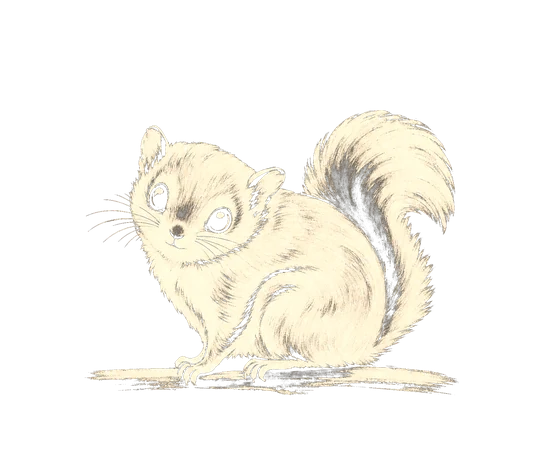
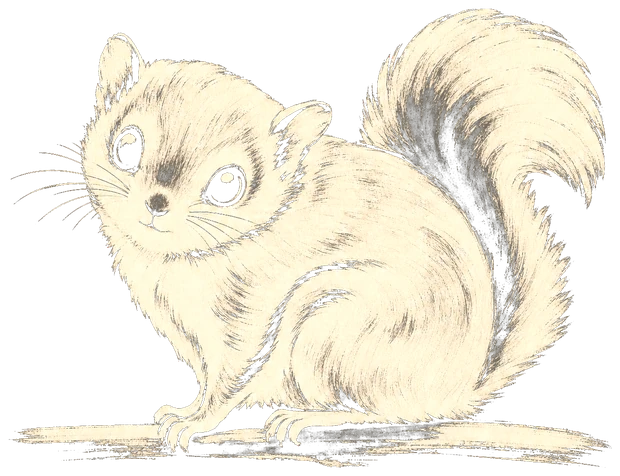
Five-frame launch, one clock with the ink, deeper shadows, slower throughout
FIVE FRAMES, NOT TWO. It sits still when you arrive — the sitting pose, membrane
folded, paws at its chest — gathers itself, throws its membrane half open,
spreads into the glide, and flares as it passes the lens. Three new drawings
(sit, crouch, open), all shot straight from the front like the two that were
already there, all keyed off their black fields and cropped to one union
bounding box, so the animal never changes size or position between frames.
That also answers the thing that was wrong with the resting state: the disc
used to hold a squirrel already mid-glide, which left nothing for scrolling to
cause. Now it is at rest, and scrolling is what makes it fly.

ONE CLOCK. INK_RIDE / INK_HOLD / FLY_RIDE are shared constants and the flight's
hold is DERIVED from the ink's rather than typed a second time, so the two can
no longer drift — and slowing one down slows the other by exactly as much.

SYNC. The growth curve went from an exponent of 2.35 to 1.5. The steep one left
the animal far behind the flood — a 150px squirrel inside a 450px disc reads as
being left behind, not as riding the same burst. It now holds at 42-50% of the
ink's width right through the flood and only overtakes once the ink owns the
whole screen. The ceiling is one rule: while ANY paper is still showing, the
animal has to stay inside the ink's radius or its cream edges land on cream.
Verified at 1000x700 and 390x844 — zero frames where it spills while paper is
visible.
[…]

diff --git a/main.js b/main.js
@@ -163,6 +163,17 @@
      depends on the width the page happened to LOAD at. */
   var mm = gsap.matchMedia();
 
+  /* ---------- the opening's clock ----------
+     The flood and the animal are two hands on ONE clock. Kept as shared
+     constants rather than two sets of magic numbers, because the moment they
+     drift the squirrel starts outgrowing the disc it is sitting in.
+     Slower than the reference on purpose: its circle covers in 205px, which is
+     a snap you feel rather than read. Ours has a five-frame launch inside it,
+     and that needs room to be legible. */
+  var INK_RIDE = 0.40;   /* fraction of a viewport the flood takes */
+  var INK_HOLD = 0.37;   /* fraction of that ride it holds its shape */
+  var FLY_RIDE = 0.62;   /* the animal keeps going a little past the flood */
+
   /* ---------- THE INK ----------
      The whole opening gesture. The ensō sitting in the sentence fills solid,
      then is scaled from its own centre until it floods the screen and the dark
@@ -202,7 +213,7 @@
        you sit and watch expand. Same shape now: hold, then go.
          hold  = 0.37 * 0.26vh = ~87px on a 900-tall screen
          cover = ~218px */
-    var RIDE = 0.26, HOLD = 0.37;
+    var RIDE = INK_RIDE, HOLD = INK_HOLD;
     function inkEase(p) { return p < HOLD ? 0 : (p - HOLD) / (1 - HOLD); }
 
     gsap.fromTo(blot, { scale: 1 }, {
@@ -275,9 +286,16 @@
     var seat = document.querySelector(".blot-figure");
     if (!flier || !blot) return;
 
-    var near = flier.querySelector(".pose-near");
-    var flare = flier.querySelector(".pose-flare");
+    /* Five frames, not two. It is sitting still when you arrive, gathers itself
+       while the ink holds, throws its membrane half open as the flood lets go,
+       spreads into the glide, and flares as it passes the lens. Each cue is a
+       fraction of the flight, and the first two live entirely inside the ink's
+       hold — which is what makes scrolling feel like it CAUSES the launch. */
+    var order = ["sit", "crouch", "open", "glide", "flare"];
+    var frames = {};
+    order.forEach(function (k) { frames[k] = flier.querySelector(".pose-" + k); });
     var de = document.documentElement;
+    var shown = null;
 
     var geo = null;
     function measure() {
@@ -308,13 +326,23 @@
        moment the flood finally opened.
        HOLD is the ink's own hold expressed in this trigger's units:
        0.37 of a 0.26vh ride, inside a 0.42vh flight. */
-    var HOLD = 0.229;
+    /* the ink's hold, expressed in THIS trigger's units — derived, never typed
+       twice, so slowing one down slows the other by exactly as much */
+    var HOLD = (INK_RIDE * INK_HOLD) / FLY_RIDE;
     /* Distance in a straight line looks like a lift, not an approach. Real
        approach is exponential: almost nothing for a long time, then the last
        third eats the screen. */
     function depth(p) {
       if (p <= HOLD) return 0;
-      return Math.pow((p - HOLD) / (1 - HOLD), 2.35);
+      /* 1.5, not 2.35. The steeper curve kept the animal far behind the flood —
+         a 150px squirrel inside a 450px disc reads as being left behind rather
+         than as riding the same burst. It tracks the ink much more closely now
+         and only overtakes it once the ink owns the whole screen. The ceiling
+         is set by one rule: while ANY paper is still showing, the animal's
+         half-diagonal has to stay inside the ink's radius, or its cream edges
+         land on cream. Checked at the worst point, mid-flood: 239 against a
+         432 radius. */
+      return Math.pow((p - HOLD) / (1 - HOLD), 1.5);
     }
 
     function place(p) {
@@ -323,7 +351,7 @@
       /* during the hold it only gathers itself — a couple of percent, enough
          that the screen answers your finger without breaking the circle */
       var tense = Math.min(1, p / HOLD);
-      var scale = 1 + tense * 0.07 + d * 9.4;
+      var scale = 1 + tense * 0.07 + d * 10.3;
       /* it does not come at your eye but just past your shoulder, so the drift
          grows with the approach instead of being a straight zoom */
       var dx = -d * geo.fw * 1.15;
@@ -337,12 +365,17 @@
            end, because a slow fade would read as a ghost rather than a body */
         opacity: p < 0.02 ? p / 0.02 : (p > 0.80 ? Math.max(0, 1 - (p - 0.80) / 0.20) : 1)
       });
-      /* the membrane flares open the moment before it passes */
-      var flaring = p > 0.72;
-      if (flare && flare.__on !== flaring) {
-        flare.__on = flaring;
-        gsap.to(flare, { opacity: flaring ? 1 : 0, duration: 0.34, ease: "power2.out", overwrite: true });
-        gsap.to(near, { opacity: flaring ? 0 : 1, duration: 0.34, ease: "power2.out", overwrite: true });
+      /* cues: two inside the hold, three across the approach */
+      var want = p < HOLD * 0.42 ? "sit"
+               : p < HOLD ? "crouch"
+               : p < HOLD + 0.10 ? "open"
+               : p < 0.74 ? "glide" : "flare";
+      if (want !== shown) {
+        shown = want;
+        order.forEach(function (k) {
+          if (frames[k]) gsap.to(frames[k], { opacity: k === want ? 1 : 0,
+            duration: 0.26, ease: "power2.out", overwrite: true });
+        });
       }
       /* shuchusen — the converging speed lines a woodblock uses for something
          moving fast at the viewer. They open with the animal and outrun it. */
@@ -357,7 +390,7 @@
 
     ScrollTrigger.create({
       start: 0,
-      end: function () { return innerHeight * 0.42; },
+      end: function () { return innerHeight * FLY_RIDE; },
       scrub: true, invalidateOnRefresh: true,
       onRefresh: function () { geo = null; },
       onUpdate: function (self) {
@@ -367,7 +400,16 @@
         /* the seat in the disc hands over on the first frame and takes the
            figure back if you scroll all the way home */
         if (seat) gsap.set(seat, { opacity: p > 0.004 ? 0 : 1 });
-        if (p > 0.001) place(p);
+        if (p > 0.001) { place(p); return; }
+        /* Home again. Without this the flier keeps whatever frame it died on —
+           scroll to the bottom and back and you find the flare pose sitting
+           invisible over the disc, ready to flash on the next nudge. */
+        shown = null;
+        gsap.set(flier, { opacity: 0 });
+        if (rush) gsap.set(rush, { opacity: 0 });
+        order.forEach(function (k) {
+          if (frames[k]) gsap.set(frames[k], { opacity: k === "sit" ? 1 : 0 });
+        });
       }
     });
 

diff --git a/index-tr.html b/index-tr.html
@@ -38,8 +38,8 @@
   <link rel="preload" as="font" type="font/woff2" href="assets/fonts/manrope-var.woff2" crossorigin>
   <link rel="preload" as="image" imagesrcset="assets/horizon-900.webp 900w, assets/horizon-1400.webp 1400w, assets/horizon.webp 1920w" imagesizes="110vw" fetchpriority="high">
   <link rel="preload" as="image" href="assets/disc-ink.webp" fetchpriority="high">
-  <link rel="preload" as="image" href="assets/mascot.webp" fetchpriority="high">
-  <link rel="stylesheet" href="style.css?v=102">
+  <link rel="preload" as="image" href="assets/momo-1-sit.webp" fetchpriority="high">
+  <link rel="stylesheet" href="style.css?v=104">
   <script type="application/ld+json">
   {"@context": "https://schema.org", "@type": "Organization", "name": "217 Products", "url": "https://217products.com/", "logo": "https://217products.com/assets/icon-512.png", "image": "https://217products.com/assets/zen.webp", "description": "Ankara’dan dünyaya açılan bağımsız bir ürün şirketiyiz. Gördüğümüz boşluklara hızlı, sade ve uzun ömürlü ürünler inşa ediyoruz.", "email": "destek217product@gmail.com", "foundingDate": "2026", "address": {"@type": "PostalAddress", "addressLocality": "Ankara", "addressCountry": "TR"}}
   </script>
@@ -69,7 +69,7 @@
 
   <aside class="tate" aria-hidden="true"><span class="seal">二一七</span><span class="tate-t">ANKARA</span></aside>
 
-  <div class="flier" aria-hidden="true"><img class="pose pose-near" src="assets/mascot.webp" alt="" width="1160" height="986" decoding="sync" fetchpriority="high"><img class="pose pose-flare" src="assets/momo-land.webp" alt="" width="1160" height="986" decoding="async"></div>
+  <div class="flier" aria-hidden="true"><img class="pose pose-sit" src="assets/momo-1-sit.webp" alt="" width="600" height="605" decoding="sync"><img class="pose pose-crouch" src="assets/momo-2-crouch.webp" alt="" width="600" height="605" decoding="async"><img class="pose pose-open" src="assets/momo-3-open.webp" alt="" width="760" height="767" decoding="async"><img class="pose pose-glide" src="assets/momo-4-glide.webp" alt="" width="1100" height="1110" decoding="async"><img class="pose pose-flare" src="assets/momo-5-flare.webp" alt="" width="1100" height="1110" decoding="async"></div>
   <div class="rush" aria-hidden="true"><i></i><i></i><i></i><i></i><i></i><i></i><i></i><i></i><i></i><i></i><i></i><i></i><i></i><i></i></div>
 
   <main id="main">
@@ -83,7 +83,7 @@
       <div class="specks" aria-hidden="true"><i></i><i></i><i></i><i></i><i></i><i></i><i></i><i></i><i></i><i></i><i></i><i></i><i></i><i></i><i></i><i></i></div>
 
       <h1 class="hero-head rise">
-        <span class="hero-line">En iyinin <span class="blot"><img class="blot-ink" src="assets/disc-ink.webp" alt="" width="320" height="320" decoding="sync" fetchpriority="high"><i class="blot-fill"></i><img class="blot-figure" src="assets/mascot.webp" alt="" width="1160" height="986" decoding="sync" fetchpriority="high"></span> ardında</span>
+        <span class="hero-line">En iyinin <span class="blot"><img class="blot-ink" src="assets/disc-ink.webp" alt="" width="320" height="320" decoding="sync" fetchpriority="high"><i class="blot-fill"></i><img class="blot-figure" src="assets/momo-1-sit.webp" alt="" width="600" height="605" decoding="sync" fetchpriority="high"></span> ardında</span>
         <span class="hero-line">hep bir <em>fikir</em> vardır.</span>
       </h1>
 
@@ -97,7 +97,7 @@
     <!-- 2 · PRODUCTS -->
     <section class="products" id="products">
       <p class="shelf-line rise">Bir boşluk görürüz.<br>Bir <em>ürün</em> kurarız.</p>
-      <div class="shelf-head rise"><img class="perch" aria-hidden="true" src="assets/momo-perch.webp" alt="" width="560" height="476" loading="lazy" decoding="async"><span class="shelf-eyebrow">RAFTA</span><span class="shelf-num">01 / 01</span></div>
+      <div class="shelf-head rise"><img class="perch" aria-hidden="true" src="assets/momo-perch.webp" alt="" width="620" height="476" loading="lazy" decoding="async"><span class="shelf-eyebrow">RAFTA</span><span class="shelf-num">01 / 01</span></div>
       <div class="product">
         <figure class="product-art rise" data-parallax="0.12">
           <img loading="lazy" decoding="async" src="assets/osnote-rich.webp?u=5" alt="OSNote — tablette bir sayfanın üstünde yüzen el yazısı araç çubuğu, kalemle işaretleniyor" width="1200" height="896">
@@ -254,6 +254,6 @@
   <script src="vendor/ScrollTrigger.min.js?v=3.15.0"></script>
   <script src="vendor/lenis.min.js?v=1.3.25"></script>
   <script type="module" src="globe3d.js?v=17"></script>
-  <script src="main.js?v=60"></script>
+  <script src="main.js?v=63"></script>
 </body>
 </html>

diff --git a/index.html b/index.html
@@ -38,8 +38,8 @@
   <link rel="preload" as="font" type="font/woff2" href="assets/fonts/manrope-var.woff2" crossorigin>
   <link rel="preload" as="image" imagesrcset="assets/horizon-900.webp 900w, assets/horizon-1400.webp 1400w, assets/horizon.webp 1920w" imagesizes="110vw" fetchpriority="high">
   <link rel="preload" as="image" href="assets/disc-ink.webp" fetchpriority="high">
-  <link rel="preload" as="image" href="assets/mascot.webp" fetchpriority="high">
-  <link rel="stylesheet" href="style.css?v=102">
+  <link rel="preload" as="image" href="assets/momo-1-sit.webp" fetchpriority="high">
+  <link rel="stylesheet" href="style.css?v=104">
   <script type="application/ld+json">
   {"@context": "https://schema.org", "@type": "Organization", "name": "217 Products", "url": "https://217products.com/", "logo": "https://217products.com/assets/icon-512.png", "image": "https://217products.com/assets/zen.webp", "description": "An independent product company reaching from Ankara to the world. Where we see a gap, we build products that are fast, simple, and made to last.", "email": "destek217product@gmail.com", "foundingDate": "2026", "address": {"@type": "PostalAddress", "addressLocality": "Ankara", "addressCountry": "TR"}}
   </script>
@@ -69,7 +69,7 @@
 
   <aside class="tate" aria-hidden="true"><span class="seal">二一七</span><span class="tate-t">ANKARA</span></aside>
 
-  <div class="flier" aria-hidden="true"><img class="pose pose-near" src="assets/mascot.webp" alt="" width="1160" height="986" decoding="sync" fetchpriority="high"><img class="pose pose-flare" src="assets/momo-land.webp" alt="" width="1160" height="986" decoding="async"></div>
+  <div class="flier" aria-hidden="true"><img class="pose pose-sit" src="assets/momo-1-sit.webp" alt="" width="600" height="605" decoding="sync"><img class="pose pose-crouch" src="assets/momo-2-crouch.webp" alt="" width="600" height="605" decoding="async"><img class="pose pose-open" src="assets/momo-3-open.webp" alt="" width="760" height="767" decoding="async"><img class="pose pose-glide" src="assets/momo-4-glide.webp" alt="" width="1100" height="1110" decoding="async"><img class="pose pose-flare" src="assets/momo-5-flare.webp" alt="" width="1100" height="1110" decoding="async"></div>
   <div class="rush" aria-hidden="true"><i></i><i></i><i></i><i></i><i></i><i></i><i></i><i></i><i></i><i></i><i></i><i></i><i></i><i></i></div>
 
   <main id="main">
@@ -83,7 +83,7 @@
       <div class="specks" aria-hidden="true"><i></i><i></i><i></i><i></i><i></i><i></i><i></i><i></i><i></i><i></i><i></i><i></i><i></i><i></i><i></i><i></i></div>
 
       <h1 class="hero-head rise">
-        <span class="hero-line">Behind the <span class="blot"><img class="blot-ink" src="assets/disc-ink.webp" alt="" width="320" height="320" decoding="sync" fetchpriority="high"><i class="blot-fill"></i><img class="blot-figure" src="assets/mascot.webp" alt="" width="1160" height="986" decoding="sync" fetchpriority="high"></span> best,</span>
+        <span class="hero-line">Behind the <span class="blot"><img class="blot-ink" src="assets/disc-ink.webp" alt="" width="320" height="320" decoding="sync" fetchpriority="high"><i class="blot-fill"></i><img class="blot-figure" src="assets/momo-1-sit.webp" alt="" width="600" height="605" decoding="sync" fetchpriority="high"></span> best,</span>
         <span class="hero-line">there is always an <em>idea</em>.</span>
       </h1>
 
@@ -97,7 +97,7 @@
     <!-- 2 · PRODUCTS -->
     <section class="products" id="products">
       <p class="shelf-line rise">We see a gap.<br>We build a <em>product</em>.</p>
-      <div class="shelf-head rise"><img class="perch" aria-hidden="true" src="assets/momo-perch.webp" alt="" width="560" height="476" loading="lazy" decoding="async"><span class="shelf-eyebrow">ON THE SHELF</span><span class="shelf-num">01 / 01</span></div>
+      <div class="shelf-head rise"><img class="perch" aria-hidden="true" src="assets/momo-perch.webp" alt="" width="620" height="476" loading="lazy" decoding="async"><span class="shelf-eyebrow">ON THE SHELF</span><span class="shelf-num">01 / 01</span></div>
       <div class="product">
         <figure class="product-art rise" data-parallax="0.12">
           <img loading="lazy" decoding="async" src="assets/osnote-rich.webp?u=5" alt="OSNote — the floating handwriting toolbar over a page on a tablet, a stylus annotating it" width="1200" height="896">
@@ -254,6 +254,6 @@
   <script src="vendor/ScrollTrigger.min.js?v=3.15.0"></script>
   <script src="vendor/lenis.min.js?v=1.3.25"></script>
   <script type="module" src="globe3d.js?v=17"></script>
-  <script src="main.js?v=60"></script>
+  <script src="main.js?v=63"></script>
 </body>
 </html>

diff --git a/style.css b/style.css
@@ -181,9 +181,13 @@ html.past-hero .brand { opacity: 0; transform: translateY(-14px); pointer-events
        soft one for the lift, a tight one to seat it, and an inner highlight
        along the top edge so the paper catches light. */
     background: #FAF6EA;
-    box-shadow: 0 18px 54px rgba(30,26,22,0.14), 0 6px 18px rgba(30,26,22,0.09),
-                0 1px 3px rgba(30,26,22,0.06),
-                inset 0 1px 0 rgba(255,255,255,0.75);
+    /* Lifted harder. The capsule spends most of its life over a painted
+       landscape and then over solid ink, and a soft shadow disappeared against
+       both — it has to read as a piece of paper held ABOVE the page, which
+       means a wide dark throw plus a tight contact shadow under it. */
+    box-shadow: 0 30px 70px rgba(30,26,22,0.26), 0 12px 28px rgba(30,26,22,0.17),
+                0 3px 7px rgba(30,26,22,0.11),
+                inset 0 1px 0 rgba(255,255,255,0.8);
   }
   /* the seal CTA sets the row height; stretch hands it to every link, so each
      one gets a 50px target instead of a 23px text box */
@@ -229,8 +233,9 @@ html.menu-open, html.menu-open body { overflow: hidden; }
   .nav { height: auto; padding: 12px var(--pad); background: none; box-shadow: none; }
   .brand, .nav-toggle {
     border-radius: 999px; background: #FAF6EA;
-    box-shadow: 0 8px 28px rgba(30,26,22,0.10), 0 3px 10px rgba(30,26,22,0.06),
-                inset 0 1px 0 rgba(255,255,255,0.7);
+    box-shadow: 0 18px 44px rgba(30,26,22,0.22), 0 7px 16px rgba(30,26,22,0.14),
+                0 2px 4px rgba(30,26,22,0.09),
+                inset 0 1px 0 rgba(255,255,255,0.8);
   }
   .brand { padding: 8px 14px; }
   /* while the menu is open the toggle is on the sheet, not on a disc */
@@ -340,8 +345,9 @@ section { padding: clamp(96px, 15vh, 210px) var(--pad); position: relative; }
   width: clamp(54px, 3.6vw, 72px); padding: clamp(19px, 1.4vw, 26px) 0;
   background: #FAF6EA;
   border-radius: 14px 0 0 14px;
-  box-shadow: -16px 16px 48px rgba(30,26,22,0.14), -5px 5px 16px rgba(30,26,22,0.09),
-              inset 0 1px 0 rgba(255,255,255,0.7);
+  box-shadow: -26px 22px 62px rgba(30,26,22,0.26), -10px 8px 24px rgba(30,26,22,0.17),
+              -2px 2px 6px rgba(30,26,22,0.1),
+              inset 0 1px 0 rgba(255,255,255,0.75);
 }
 /* the seal reads across, the place name reads down — the reference's rail is
    built the same way, a mark stacked over a vertical label */
@@ -533,7 +539,9 @@ html:not(.scrolled) .blot { pointer-events: auto; cursor: pointer; }
    first frame. */
 .blot-figure {
   position: absolute; inset: 0; margin: auto;
-  width: 88%; height: 74.8%; max-width: none;
+  /* the sitting pose is taller than it is wide, unlike the spread glide it
+     replaced, so the disc holds it by HEIGHT and lets the width follow */
+  width: 80%; height: 80.7%; max-width: none;
   will-change: transform, opacity; user-select: none; pointer-events: none;
 }
 .blot .blot-fill {
@@ -1050,7 +1058,7 @@ html, body { max-width: 100%; overflow-x: hidden; overflow-x: clip; }
   position: fixed; left: 0; top: 0; z-index: 38;
   /* width is set by the script from the figure in the disc, so the handoff on
      the first frame is pixel-exact; this is only the pre-mount fallback */
-  width: 200px; aspect-ratio: 1160 / 986;
+  width: 200px; aspect-ratio: 1100 / 1110;
   pointer-events: none; visibility: hidden; opacity: 0;
   transform-origin: 50% 50%; will-change: transform, opacity;
 }
@@ -1060,7 +1068,7 @@ html.in-flight .flier, html.in-flight .rush { visibility: visible; }
   object-fit: contain; opacity: 0; user-select: none;
   will-change: opacity;
 }
-.flier .pose-near { opacity: 1; }
+.flier .pose-sit { opacity: 1; }
 
 /* shuchusen — the converging speed lines a woodblock reaches for when
    something is coming straight at the viewer. Fourteen tapered strokes on one
@@ -1106,7 +1114,9 @@ html.in-flight .flier, html.in-flight .rush { visibility: visible; }
   --pw: clamp(104px, 11vw, 168px);
   position: absolute; right: clamp(58px, 7vw, 120px);
   width: var(--pw); height: auto;
-  bottom: calc(var(--pw) * -0.1445);
+  /* its own tight crop puts the feet at 98.1% of the height, so it only
+     hangs 1.9% of that below the rule: 0.019 x (476/620) x width */
+  bottom: calc(var(--pw) * -0.0146);
   pointer-events: none; user-select: none; z-index: 2;
 }
 @media (max-width: 700px) { .perch { --pw: clamp(88px, 26vw, 116px); right: 0; } }
